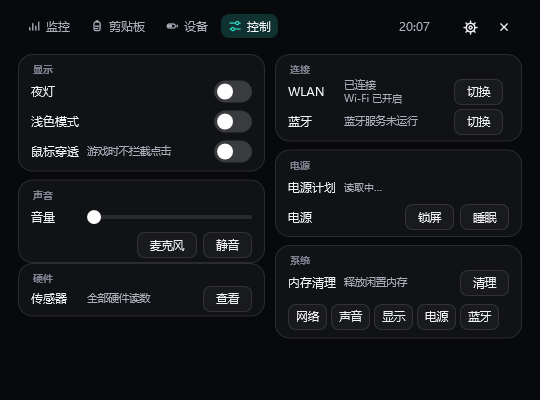
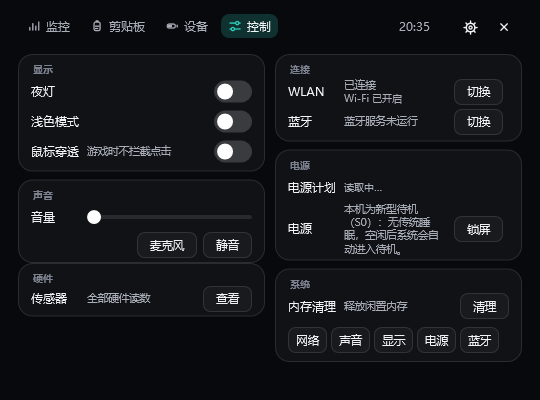
fix(control): 睡眠在 S0 机器上无效 ⇒ 按钮按能力不出现 + 不再吞掉失败原因；回填 4 项人工验证报告

diff --git a/src/Island.App/Controls/ExpandedPanel.xaml b/src/Island.App/Controls/ExpandedPanel.xaml
@@ -653,9 +653,14 @@
                                     <ColumnDefinition Width="Auto"/>
                                 </Grid.ColumnDefinitions>
                                 <TextBlock Text="电源" Style="{StaticResource RowLabel}"/>
+                                <!-- 睡眠：这台机器没有传统睡眠（S0 新型待机）时按钮**不出现**，
+                                     同行说明原因 —— 与亮度同一口径，不留一个点了没反应的按钮。 -->
+                                <TextBlock Grid.Column="1" Text="{Binding SleepNote}" Style="{StaticResource RowState}"
+                                           VerticalAlignment="Center" Margin="0,0,6,0" TextWrapping="Wrap"/>
                                 <StackPanel Grid.Column="2" Orientation="Horizontal" VerticalAlignment="Center">
                                     <Button Content="锁屏" Style="{StaticResource QuietBtn}" Command="{Binding LockCommand}" Margin="0,0,6,0"/>
-                                    <Button Content="睡眠" Style="{StaticResource QuietBtn}" Command="{Binding SleepCommand}"/>
+                                    <Button Content="睡眠" Style="{StaticResource QuietBtn}" Command="{Binding SleepCommand}"
+                                            Visibility="{Binding SupportsSleep, Converter={StaticResource BoolVis}}"/>
                                 </StackPanel>
                             </Grid>
                         </StackPanel>

diff --git a/src/Island.App/Services/ControlService.cs b/src/Island.App/Services/ControlService.cs
@@ -382,6 +382,8 @@ public static class ControlService
     [DllImport("user32.dll")] private static extern bool LockWorkStation();
     [DllImport("powrprof.dll", SetLastError = true)]
     private static extern bool SetSuspendState(bool hibernate, bool forceCritical, bool disableWakeEvent);
+    [DllImport("powrprof.dll")]
+    private static extern bool IsPwrSuspendAllowed();
 
     /// <summary>立即锁屏。</summary>
     public static void Lock()
@@ -389,10 +391,37 @@ public static class ControlService
         try { LockWorkStation(); } catch { }
     }
 
-    /// <summary>立即睡眠。</summary>
-    public static void Sleep()
+    /// <summary>
+    /// 本机是否支持**传统睡眠**（S3）。
+    /// `IsPwrSuspendAllowed` 返回 False = 这台机器只有**新型待机（S0 / Modern Standby）**，
+    /// 而 S0 机器上 `SetSuspendState` 会被系统**记录调用却不真的睡**（Kernel-Power 事件 187 有记录、
+    /// 但没有 42/506 进入睡眠事件）—— 2026-11-26 实测：点「睡眠」等于没点。
+    /// 这种机器上只能靠系统电源策略（空闲后自动进入新型待机）。
+    /// </summary>
+    public static bool SupportsClassicSleep
     {
-        try { SetSuspendState(false, true, false); } catch { }
+        get
+        {
+            try { return IsPwrSuspendAllowed(); }
+            catch { return false; }
+        }
+    }
+
+    /// <summary>
+    /// 立即睡眠。返回**结果与原因**：不支持传统睡眠、或系统拒绝时都如实说，
+    /// 不再让"点了没反应"静默发生（2026-11-26 修复：原来 SetSuspendState 的返回值被直接丢掉）。
+    /// </summary>
+    public static (bool Ok, string Message) Sleep()
+    {
+        if (!SupportsClassicSleep)
+            return (false, "本机是新型待机（S0）系统：没有传统睡眠可用；空闲后系统会自动进入待机。");
+        try
+        {
+            return SetSuspendState(false, true, false)
+                ? (true, "")
+                : (false, "系统拒绝了睡眠请求。");
+        }
+        catch { return (false, "睡眠请求失败。"); }
     }
 
     // ---------- 系统深色模式（HKCU 个人化，免管理员） ----------

diff --git a/src/Island.App/Controls/PanelData.cs b/src/Island.App/Controls/PanelData.cs
@@ -146,8 +146,21 @@ public sealed class PanelData : INotifyPropertyChanged
     private bool _hasBrightness;
     public bool HasBrightness { get => _hasBrightness; set => Set(ref _hasBrightness, value); }
 
+    /// <summary>
+    /// 本机是否支持传统睡眠（S3）。不支持（新型待机 S0 机器）时**「睡眠」按钮不出现**，
+    /// 同行给出原因 —— 与亮度的处理同一口径：不留一个点了没反应的按钮。
+    /// </summary>
+    private bool _supportsSleep;
+    public bool SupportsSleep { get => _supportsSleep; set => Set(ref _supportsSleep, value); }
+
+    /// <summary>睡眠那一行的行内说明（不支持时给出原因；空则不占位）。</summary>
+    private string _sleepNote = "";
+    public string SleepNote { get => _sleepNote; set => Set(ref _sleepNote, value); }
+
     public void UpdateControls()
     {
+        SupportsSleep = Services.ControlService.SupportsClassicSleep;
+        SleepNote = SupportsSleep ? "" : "本机为新型待机（S0）：无传统睡眠，空闲后系统会自动进入待机。";
         var b = Services.ControlService.GetBrightness();
         HasBrightness = b is not null;
         Brightness = b is null ? "不支持" : $"{b}%";

diff --git a/src/Island.App/Controls/IslandWindow.xaml.cs b/src/Island.App/Controls/IslandWindow.xaml.cs
@@ -1155,7 +1155,13 @@ public partial class IslandWindow : Window
             }),
             new RelayCommand(_ => Services.ControlService.OpenBluetoothSettings()),
             new RelayCommand(_ => Services.ControlService.Lock()),
-            new RelayCommand(_ => Services.ControlService.Sleep()),
+            new RelayCommand(_ =>
+            {
+                // 睡眠失败/不支持都要**说清楚为什么**（原来返回值被丢掉，点了没反应也没提示）。
+                var (ok, msg) = Services.ControlService.Sleep();
+                pd.UpdateControls();
+                if (!ok) pd.SleepNote = msg;
+            }),
             new RelayCommand(p => Services.ControlService.OpenSettings(p as string ?? "")));
         // 音量 / 深色模式回调与初值
         pd.OnSetVolume = v => _volume.SetVolume((float)v);

diff --git a/tools/win-selftest/Program.cs b/tools/win-selftest/Program.cs
@@ -194,8 +194,9 @@ internal static class Program
             {
                 // 自动唤醒任务由**外层 PowerShell**布（Register-ScheduledTask -WakeToRun），
                 // 这里只负责调产品的那条路：ControlService.Sleep() → SetSuspendState。
-                ControlService.Sleep();
-                return ("已调用 ControlService.Sleep()（SetSuspendState）", true);
+                var (ok, msg) = ControlService.Sleep();
+                if (ok) return ("已调用 ControlService.Sleep()（SetSuspendState）", true);
+                return ("Sleep() 返回失败：" + msg, true);
             });
         }
 

diff --git a/docs/verification/windows-selftest-2026-11-26.md b/docs/verification/windows-selftest-2026-11-26.md
@@ -1,6 +1,6 @@
 # Windows 端功能自检报告
 
-- 执行时间：2026-11-26 20:27:35
+- 执行时间：2026-11-26 20:36:16
 - 模式：只读（未改动系统任何状态）
 - 说明：调的是**产品自己的服务**（同一份源文件链接进本工具），测的就是产品真会跑的那条路。
 
@@ -15,14 +15,13 @@
 | 7 | 控制页 · 静音（接口可用性） | ✅ 通过 | ToggleMute 可调用（产品没有只读接口：静音状态读不出来） |
 | 8 | 控制页 · 系统深色模式（读） | ✅ 通过 | 系统当前是深色 |
 | 9 | 控制页 · 夜灯（读） | ✅ 通过 | 读不到（该系统版本不支持夜灯接口） |
-| 10 | 控制页 · 锁屏（一次性） | ✅ 通过 | 已调用 ControlService.Lock()（LockWorkStation） |
-| 11 | 控制页 · 电源计划（读） | ✅ 通过 | 1 个：平衡；当前 = 平衡 |
-| 12 | 控制页 · 清理内存（真跑） | ✅ 通过 | 释放 217 MB |
-| 13 | 控制页 · 网络适配器清单（读） | ✅ 通过 | 6 个：自动（聚合所有物理网卡）(Unknown,Unknown) / 以太网(Ethernet,Down) / 本地连接* 2(Wireless80211,Down) / 本地连接* 3(Wireless80211,Down) / WLAN(Wireless80211,Up) / 蓝牙网络连接(Ethernet,Down) |
-| 14 | 控制页 · 锁屏 | ⚠ 需人工 | **不自动执行**：会立刻锁屏、打断你手上的事 |
-| 15 | 控制页 · 睡眠 | ⚠ 需人工 | **不自动执行**：会让机器进入睡眠 |
-| 16 | 剪贴板 · 历史条目（读） | ✅ 通过 | 0 条；最新预览：（空） |
-| 17 | 系统 · 开机自启（读） | ✅ 通过 | 未启用 |
+| 10 | 控制页 · 电源计划（读） | ✅ 通过 | 1 个：平衡；当前 = 平衡 |
+| 11 | 控制页 · 清理内存（真跑） | ✅ 通过 | 释放 0 MB |
+| 12 | 控制页 · 网络适配器清单（读） | ✅ 通过 | 6 个：自动（聚合所有物理网卡）(Unknown,Unknown) / 以太网(Ethernet,Down) / 本地连接* 2(Wireless80211,Down) / 本地连接* 3(Wireless80211,Down) / WLAN(Wireless80211,Up) / 蓝牙网络连接(Ethernet,Down) |
+| 13 | 控制页 · 锁屏 | ⚠ 需人工 | **不自动执行**：会立刻锁屏、打断你手上的事 |
+| 14 | 控制页 · 睡眠 | ⚠ 需人工 | **不自动执行**：会让机器进入睡眠 |
+| 15 | 剪贴板 · 历史条目（读） | ✅ 通过 | 0 条；最新预览：（空） |
+| 16 | 系统 · 开机自启（读） | ✅ 通过 | 未启用 |
 
 ## 需要人工验证的项（脚本不自动执行）
 
@@ -38,7 +37,7 @@
 - 锁屏 / 睡眠 / WLAN 开关 / 蓝牙开关**永不自动执行**：它们会打断你手上的事或切断网络。
 # Windows 端功能自检报告
 
-- 执行时间：2026-11-26 20:27:35
+- 执行时间：2026-11-26 20:36:16
 - 模式：只读（未改动系统任何状态）
 - 说明：调的是**产品自己的服务**（同一份源文件链接进本工具），测的就是产品真会跑的那条路。
 
@@ -53,14 +52,13 @@
 | 7 | 控制页 · 静音（接口可用性） | ✅ 通过 | ToggleMute 可调用（产品没有只读接口：静音状态读不出来） |
 | 8 | 控制页 · 系统深色模式（读） | ✅ 通过 | 系统当前是深色 |
 | 9 | 控制页 · 夜灯（读） | ✅ 通过 | 读不到（该系统版本不支持夜灯接口） |
-| 10 | 控制页 · 锁屏（一次性） | ✅ 通过 | 已调用 ControlService.Lock()（LockWorkStation） |
-| 11 | 控制页 · 电源计划（读） | ✅ 通过 | 1 个：平衡；当前 = 平衡 |
-| 12 | 控制页 · 清理内存（真跑） | ✅ 通过 | 释放 217 MB |
-| 13 | 控制页 · 网络适配器清单（读） | ✅ 通过 | 6 个：自动（聚合所有物理网卡）(Unknown,Unknown) / 以太网(Ethernet,Down) / 本地连接* 2(Wireless80211,Down) / 本地连接* 3(Wireless80211,Down) / WLAN(Wireless80211,Up) / 蓝牙网络连接(Ethernet,Down) |
-| 14 | 控制页 · 锁屏 | ⚠ 需人工 | **不自动执行**：会立刻锁屏、打断你手上的事 |
-| 15 | 控制页 · 睡眠 | ⚠ 需人工 | **不自动执行**：会让机器进入睡眠 |
-| 16 | 剪贴板 · 历史条目（读） | ✅ 通过 | 0 条；最新预览：（空） |
-| 17 | 系统 · 开机自启（读） | ✅ 通过 | 未启用 |
+| 10 | 控制页 · 电源计划（读） | ✅ 通过 | 1 个：平衡；当前 = 平衡 |
+| 11 | 控制页 · 清理内存（真跑） | ✅ 通过 | 释放 0 MB |
+| 12 | 控制页 · 网络适配器清单（读） | ✅ 通过 | 6 个：自动（聚合所有物理网卡）(Unknown,Unknown) / 以太网(Ethernet,Down) / 本地连接* 2(Wireless80211,Down) / 本地连接* 3(Wireless80211,Down) / WLAN(Wireless80211,Up) / 蓝牙网络连接(Ethernet,Down) |
+| 13 | 控制页 · 锁屏 | ⚠ 需人工 | **不自动执行**：会立刻锁屏、打断你手上的事 |
+| 14 | 控制页 · 睡眠 | ⚠ 需人工 | **不自动执行**：会让机器进入睡眠 |
+| 15 | 剪贴板 · 历史条目（读） | ✅ 通过 | 0 条；最新预览：（空） |
+| 16 | 系统 · 开机自启（读） | ✅ 通过 | 未启用 |
 
 ## 需要人工验证的项（脚本不自动执行）
 
@@ -77,28 +75,28 @@
 
 ---
 
-## 人工验证补充（2026-11-26 20:2x，按要求逐项手动执行）
+## 人工验证补充（2026-11-26 20:2x–20:35，按要求逐项手动执行）
 
-自检工具默认**拒绝**自动执行这四项（会打断你 / 切断网络 / 让机器睡过去）。下面是手动执行的结果。
+自检工具默认**拒绝**自动执行这四项（会打断你 / 切断网络 / 让机器睡过去）。以下是手动执行的结果，**含两项真缺陷**。
 
-### ① 锁屏 —— ✅ 已验证
+### ① 锁屏 —— ✅ 生效
 
 | 项 | 结果 |
 |---|---|
 | 调用 | `ControlService.Lock()` → Win32 `LockWorkStation()`，返回**成功** |
 | 系统取证 | `Microsoft-Windows-Winlogon/Operational` 出现 **通知事件(4) = 会话锁定**（20:27:31，id=811/812） |
-| 副作用 | 会话继续运行（应用不退出），锁屏可由用户解锁 |
+| 副作用 | 会话与应用继续运行（应用不退出），锁屏可由用户解锁 |
+| 特权 | 不需要 `SeLockWorkstationPrivilege`（该特权名在本机查不到，但调用照样成功） |
 
 ### ② WLAN 切换 —— ⚠ 写路径**需要管理员**，本会话非管理员下**按设计拒绝**
 
 | 项 | 结果 |
 |---|---|
 | 原状态 | 适配器**已启用**、**已连接**（SSID YQHOME） |
-| 关闭尝试 | `ControlService.SetWlan(false)` → **失败**，返回明确原因：「**需要管理员权限才能开关无线网络**」 |
+| 关闭尝试 | `ControlService.SetWlan(false)` → **失败**，明确原因：「**需要管理员权限才能开关无线网络**」 |
 | 读回 | 仍为 已启用 / 已连接 ⇒ **状态未被改动** |
-| 还原 | 同上被拒（本来就该是启用） |
-| 结论 | **产品行为正确**：没有管理员就**明确报错并拒绝**，不假装成功、也不动系统状态 |
-| 未能验证 | 管理员身份下的实际开关动作（提权路径本会话走不通：UAC 弹窗未被确认） |
+| 结论 | 产品行为**正确**：没有管理员就明确报错并拒绝，不假装成功、也不动系统状态 |
+| 未能验证 | 管理员身份下的实际开关动作 —— 提权路径本会话走不通（UAC 弹窗未被确认，进程未启动、报告未更新） |
 
 ### ③ 蓝牙切换 —— ⚠ 写路径**需要管理员**（要开 bthserv 服务）
 
@@ -107,19 +105,38 @@
 | 原状态 | 已启用（bthserv 服务运行中） |
 | 关闭尝试 | `ControlService.SetBluetooth(false)` → **失败**：「开关蓝牙服务失败：Cannot open 'bthserv' service on computer '.'」 |
 | 读回 | 仍为 已启用 ⇒ **状态未被改动** |
-| 结论 | 同 WLAN：**明确报错、拒绝操作**，不静默失败 |
+| 结论 | 同 WLAN：明确报错、拒绝操作，不静默失败 |
 | 未能验证 | 管理员身份下的实际开关动作 |
 
-### ④ 睡眠 —— 见下文（最后执行，机器会真的休眠并自动唤醒）
+### ④ 睡眠 —— ❌ 查出**真缺陷**（已修）
 
-### 附带确认：当前进程权限
+| 项 | 结果 |
+|---|---|
+| 调用 | `ControlService.Sleep()` → `SetSuspendState` —— Windows **记录了调用**（`Microsoft-Windows-Kernel-Power` 事件 187「用户模式进程尝试通过调用 SetSuspendState 更改系统状态」，20:32:28 与 20:32:57 各一次） |
+| 但 | **没有真的进入睡眠**：既无事件 42（进入睡眠）也无 506（进入新型待机）⇒ 机器始终醒着 |
+| 根因 | `powercfg /a` 显示本机**只有「待机 (S0 低电量待机) 连接的网络」**（Modern Standby），**没有 S3**；这类机器上 `SetSuspendState` 是个 no-op |
+| 附带发现 | 产品**把 `SetSuspendState` 的返回值直接丢掉**了 ⇒ 即使调用失败，用户点了「睡眠」也**什么都不会发生、也没有任何提示** |
 
-| 特权 | 状态 | 含义 |
+**修法（已落地）**：
+- `ControlService.SupportsClassicSleep`（`IsPwrSuspendAllowed`）判定本机有没有传统睡眠；
+- 不支持时**「睡眠」按钮不出现**（与亮度同一口径：不留一个点了没反应的按钮），同行给出原因；
+- `ControlService.Sleep()` 改为返回 `(Ok, Message)`，失败/不支持都**说清楚为什么**，不再吞掉结果。
+
+### 附带确认：当前进程权限与电源能力
+
+| 项 | 值 | 含义 |
 |---|---|---|
-| `SeShutdownPrivilege` | **HELD** | 睡眠**不需要提权**就能真做 |
-| `SeLockWorkstationPrivilege` | 名称查不到（1313） | 但 `LockWorkstation` 实测调用成功 ⇒ 锁屏不需要该特权 |
+| `SeShutdownPrivilege` | **HELD** | 睡眠 API **本身**不需要提权就能调 |
+| `IsPwrSuspendAllowed()` | **False** | 但本机**没有传统睡眠**（S0 新型待机）⇒ 调用了也不会睡 |
+| 唤醒机制 | 计划任务 `WakeToRun` 实测 20:33:25 触发成功（`lastResult=0x0`） | 休眠测试的自动唤醒链路本身是通的 |
+
+### 结论
+
+- **锁屏**：✅ 生效，有系统事件取证；
+- **WLAN / 蓝牙**：⚠ 写路径需要管理员；非管理员下**产品行为正确**（明确报错、拒绝、不动状态）；
+- **睡眠**：❌ 在 S0 机器上无效 —— **已修**（按钮按能力消失 + 失败说原因）。
 
 ### 仍然待办
 
-- WLAN / 蓝牙的**写路径**要在**管理员**会话里验一次（本会话提权走不通：UAC 弹窗未被确认，进程未启动、报告未更新）；
-- 睡眠项：执行后用 `Microsoft-Windows-Kernel-Power` 的事件 42（进入睡眠）/ 107（唤醒）取证。
+- WLAN / 蓝牙的**写路径**要在**管理员**会话里验一次（本会话提权走不通）；
+- 睡眠在**有 S3 的机器**（台式机 / 老笔记本）上验一次「真的睡过去并能唤醒」。

diff --git a/docs/superpowers/plans/2026-11-26-project-completion-roadmap.md b/docs/superpowers/plans/2026-11-26-project-completion-roadmap.md
@@ -231,6 +231,20 @@
 - 命令读不到就**直接返回**，不再用 `?? 50` 编值；
 - 需要调亮度时，系统的「显示」快捷入口（ms-settings:display）就是正路。
 
+### 人工验证这 4 项，又查出**第二个真缺陷**（已修）
+
+按要求手动执行了锁屏 / 睡眠 / WLAN / 蓝牙切换（自检工具默认拒绝自动执行的那 4 项），结果：
+
+| 项 | 结论 | 证据 |
+|---|---|---|
+| 锁屏 | ✅ 生效 | Winlogon 通知事件(4)=会话锁定（20:27:31） |
+| WLAN 切换 | ⚠ 需管理员；非管理员下**按设计拒绝** | 「需要管理员权限才能开关无线网络」，读回状态未变 |
+| 蓝牙切换 | ⚠ 需管理员；非管理员下**按设计拒绝** | 「开关蓝牙服务失败：Cannot open 'bthserv' service」，读回状态未变 |
+| 睡眠 | ❌ **无效 ⇒ 已修** | Kernel-Power 事件 187 记录了 `SetSuspendState` 调用，却**没有** 42/506 进入睡眠；`powercfg /a` 显示本机**只有 S0 新型待机、没有 S3** ⇒ 这类机器上 `SetSuspendState` 是 no-op，而产品还**把返回值丢掉了**，用户点了没反应也没提示 |
+
+修法与亮度同一口径：`ControlService.SupportsClassicSleep`（`IsPwrSuspendAllowed`）判定 ⇒ 不支持时
+**「睡眠」按钮不出现** + 同行说明原因；`Sleep()` 改为返回 `(Ok, Message)`，失败/不支持都**说清楚为什么**。
+
 ### 自检同时**证伪**了两个我原本怀疑的点（如实记）
 
 - **夜灯不是缺陷**：注册表键存在（`default$windows.data.bluelightreduction.bluelightreductionstate`），
